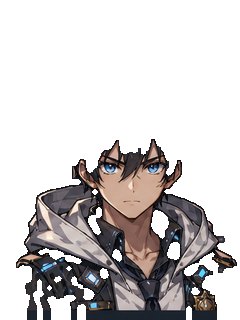
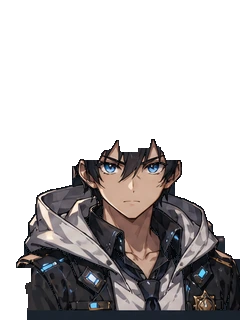
fix(vn): fill portrait mask holes

diff --git a/index.html b/index.html
@@ -11,7 +11,7 @@
     <title>デウス・コード 八百万の神託 - RPG Demo</title>
     <link rel="preload" as="image" href="assets/title/title-screen.webp" type="image/webp">
     <!-- build: 2026-06-09T19:40 (fixed-message-panel-layout) -->
-    <script>window.__BUILD__='2026-07-06T-vn-portrait-opacity-fix';</script>
+    <script>window.__BUILD__='2026-07-06T-vn-portrait-solid-mask-fix';</script>
     <style>
         * {
             margin: 0;
@@ -3721,7 +3721,7 @@
     <script src="bgm-system.js?v=36"></script>
     <script src="party-system.js?v=50"></script>
     <script src="quest-system.js?v=9"></script>
-    <script src="story-events.js?v=67"></script>
+    <script src="story-events.js?v=68"></script>
 
     <script>
         const canvas = document.getElementById('gameCanvas');

diff --git a/story-events.js b/story-events.js
@@ -43,7 +43,7 @@ class StoryEventSystem {
         this.vnRight = document.getElementById('vnPortraitRight');
         // 話者名 → ポートレートのキャラキー
         this.PORTRAIT_KEYS = { 'カイト': 'kaito', 'アカリ': 'akari', 'リク': 'riku', 'ヤミ': 'yami' };
-        this.vnPortraitVersion = '20260706-opaque-vn';
+        this.vnPortraitVersion = '20260706-solid-vn';
         this.vnLeftKey = null;   // 左に立っているキャラキー
         this.vnRightKey = null;  // 右
 

diff --git a/tools/vn-portrait-alpha-oracle.py b/tools/vn-portrait-alpha-oracle.py
@@ -1,7 +1,7 @@
 #!/usr/bin/env python3
 """Validate VN portrait alpha is reserved for background cutout, not character opacity."""
 from pathlib import Path
-from PIL import Image
+from PIL import Image, ImageChops, ImageDraw, ImageFilter
 
 ROOT = Path(__file__).resolve().parents[1]
 ASSET_DIR = ROOT / "assets" / "characters"
@@ -11,16 +11,32 @@ FORMATS = ["png", "webp"]
 ok = True
 print("\n=== VN portrait alpha oracle ===\n")
 
+
+def estimate_internal_hole_ratio(alpha):
+    """Estimate transparent holes inside a portrait silhouette."""
+    mask = alpha.point(lambda v: 255 if v > 0 else 0)
+    closed = mask.filter(ImageFilter.MaxFilter(11)).filter(ImageFilter.MinFilter(11))
+    inv = ImageChops.invert(closed)
+    ImageDraw.floodfill(inv, (0, 0), 128, thresh=0)
+    outside = inv.point(lambda v: 255 if v == 128 else 0)
+    silhouette = ImageChops.invert(outside)
+    holes = ImageChops.subtract(silhouette, mask)
+    hole_px = sum(1 for a in holes.getdata() if a > 0)
+    fg_px = sum(1 for a in mask.getdata() if a > 0)
+    return (hole_px / max(1, fg_px)) * 100
+
 for key in CHARS:
     for ext in FORMATS:
         path = ASSET_DIR / f"{key}_portrait_vn.{ext}"
         im = Image.open(path).convert("RGBA")
         alpha = list(im.getchannel("A").getdata())
+        alpha_channel = im.getchannel("A")
         total = len(alpha)
         opaque = sum(1 for a in alpha if a >= 250) / total * 100
         semi = sum(1 for a in alpha if 1 <= a < 250) / total * 100
-        cond = im.size == (240, 320) and semi <= 0.1 and opaque >= 20
-        print(f"{'OK' if cond else 'NG'} {path.name}: size={im.size} opaque={opaque:.1f}% semi={semi:.2f}%")
+        holes = estimate_internal_hole_ratio(alpha_channel)
+        cond = im.size == (240, 320) and semi <= 0.1 and opaque >= 20 and holes <= 1.0
+        print(f"{'OK' if cond else 'NG'} {path.name}: size={im.size} opaque={opaque:.1f}% semi={semi:.2f}% holes={holes:.2f}%")
         ok = ok and cond
 
 print("\n" + ("OK all VN portraits are opaque where visible" if ok else "NG alpha regression detected"))
